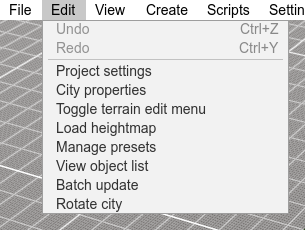
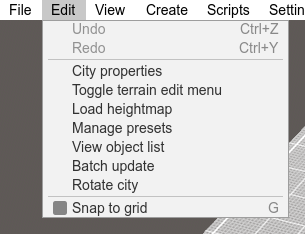
Merge project settings into preferences panel and make graphics settings global

diff --git a/Scripts/UI/EditorPanel/EditorPanels/SettingsEditorPanel.cs b/Scripts/UI/EditorPanel/EditorPanels/SettingsEditorPanel.cs
@@ -16,17 +16,27 @@ namespace EditorPanels {
         EditorPanelElements.Checkbox mcpEnabled;
         EditorPanelElements.InputField mcpPort, mcpToken, mcpCommand;
         EditorPanelElements.Label mcpStatus;
+        EditorPanelElements.ScrollList globalPaths, localPaths;
+        EditorPanelElements.Button deleteLocalPathBtn, addLocalPathBtn;
+        EditorPanelElements.TextureField overlayField;
+        EditorPanelElements.InputField propsCullingDistance;
+        EditorPanelElements.Dropdown renderingModeDropdown;
+        EditorPanelElements.Checkbox shadowsCheckbox;
         List<CM.CoreInfo> curList;
         int curCoreI = -1;
         int curScriptFolderI = -1;
+        int curGlobalPathI = -1;
+        int curLocalPathI = -1;
 
         public override void Initialize(GameObject canvas) {
-            pageButtonNames.AddRange(new string[] { SM.Get("PREF_TAB_CORES"), SM.Get("PREF_TAB_PYTHON"), SM.Get("PREF_TAB_CONTROLS"), SM.Get("PREF_TAB_MCP") });
-            Initialize(canvas, 4);
+            pageButtonNames.AddRange(new string[] { SM.Get("PREF_TAB_CORES"), SM.Get("PREF_TAB_PYTHON"), SM.Get("PREF_TAB_CONTROLS"), SM.Get("PREF_TAB_MCP"), SM.Get("PREF_TAB_PATHS"), SM.Get("PREF_TAB_GFX") });
+            Initialize(canvas, new List<int> { 3, 3 });
             var p0 = GetPage(0);
             var p1 = GetPage(1);
             var p2 = GetPage(2);
             var p3 = GetPage(3);
+            var p4 = GetPage(4);
+            var p5 = GetPage(5);
             var w = 1.5f;
 
             //Cores
@@ -110,7 +120,73 @@ namespace EditorPanels {
             p3.IncreaseRow();
             p3.AddButton(SM.Get("CLOSE"), delegate { SetActive(false); }, w);
 
+            //Paths (the global ones are program settings, the local ones and the overlay belong to the open city)
+            globalPaths = p4.AddScrollList(SM.Get("PREF_GLOBAL_PATHS"), new List<string>(), x => curGlobalPathI = x, w, SM.Get("PREF_GLOBAL_PATHS_TOOLTIP"));
+            p4.IncreaseRow(5.0f);
+            p4.AddButton(SM.Get("PREF_GLOBAL_PATHS_DELETE"), delegate {
+                DeletePath(ref curGlobalPathI, delegate { return SettingsManager.GetList<string>("extraFolders", null); }, x => SettingsManager.SetList("extraFolders", x), globalPaths);
+            }, w * 0.5f);
+            p4.AddButton(SM.Get("PREF_GLOBAL_PATHS_ADD"), delegate {
+                GetPath(x => { AddPath(x, ref curGlobalPathI, delegate { return SettingsManager.GetList<string>("extraFolders", null); }, x => SettingsManager.SetList("extraFolders", x), globalPaths); });
+            }, w * 0.5f);
+            p4.IncreaseRow();
+            localPaths = p4.AddScrollList(SM.Get("PREF_LOCAL_PATHS"), new List<string>(), x => curLocalPathI = x, w, SM.Get("PREF_LOCAL_PATHS_TOOLTIP"));
+            p4.IncreaseRow(5.0f);
+            deleteLocalPathBtn = p4.AddButton(SM.Get("PREF_LOCAL_PATHS_DELETE"), delegate {
+                DeletePath(ref curLocalPathI, delegate { return PreferencesManager.GetList<string>("extraFolders", null); }, x => PreferencesManager.SetList("extraFolders", x), localPaths);
+            }, w * 0.5f);
+            addLocalPathBtn = p4.AddButton(SM.Get("PREF_LOCAL_PATHS_ADD"), delegate {
+                GetPath(x => { AddPath(x, ref curLocalPathI, delegate { return PreferencesManager.GetList<string>("extraFolders", null); }, x => PreferencesManager.SetList("extraFolders", x), localPaths); });
+            }, w * 0.5f);
+            p4.IncreaseRow();
+            overlayField = p4.AddTextureField(builder, SM.Get("GROUND_OVERLAY"), SM.Get("TEXTURE_PH"), "", x => {
+                PreferencesManager.Set("overlayTex", x);
+                builder.helper.LoadOverlayTexture(x);
+            }, delegate {
+                return PreferencesManager.Get("overlayTex", "");
+            }, x => PreferencesManager.Set("overlayTex", x), w, SM.Get("OVERLAY_TOOLTIP"));
+            p4.IncreaseRow();
+            p4.AddButton(SM.Get("CLOSE"), delegate { SetActive(false); }, w);
+
+            //Graphics
+            renderingModeDropdown = p5.AddDropdown(SM.Get("PREF_GFX_RENDERING_MODE"), new List<string> { SM.Get("PREF_GFX_RENDERING_MODE_NORMAL"), SM.Get("PREF_GFX_RENDERING_MODE_VERTEX_LIT") }, builder.helper.menuBar.SetCameraRenderingMode, w);
+            p5.IncreaseRow();
+            shadowsCheckbox = p5.AddCheckbox(SM.Get("PREF_GFX_SHADOWS"), true, builder.helper.menuBar.SetShadows, w);
+            p5.IncreaseRow();
+            propsCullingDistance = p5.AddInputField(SM.Get("PREF_GFX_PROP_CULL_DIST"), SM.Get("NUMBER_PH"), "", GameEngine.InputContentType.Decimal, builder.helper.menuBar.SetPropsCullingDistance, w);
+            p5.IncreaseRow();
+            p5.AddButton(SM.Get("CLOSE"), delegate { SetActive(false); }, w);
+
             ReloadCoreList(cores, true);
+        }
+
+        void DeletePath(ref int curPathI, System.Func<List<string>> getter, System.Action<List<string>> setter, EditorPanelElements.ScrollList paths) {
+            if (curPathI == -1) return;
+            var lst = getter.Invoke();
+            if (lst != null) {
+                lst.RemoveAt(curPathI);
+                setter.Invoke(lst);
+            }
+            ReloadPathList(ref curPathI, getter, paths, true);
+        }
+
+        void AddPath(string value, ref int curPathI, System.Func<List<string>> getter, System.Action<List<string>> setter, EditorPanelElements.ScrollList paths) {
+            var lst = getter.Invoke();
+            if (lst == null) lst = new List<string>();
+            lst.Add(value);
+            setter.Invoke(lst);
+            ReloadPathList(ref curPathI, getter, paths, true);
+        }
+
+        void GetPath(System.Action<string> saveAction) {
+            builder.CreateInput(SM.Get("PREF_PATH_INPUT_TITLE"), SM.Get("PREF_PATH_INPUT_PH"), SM.Get("ADD"), SM.Get("CANCEL"), str => { saveAction.Invoke(str); });
+        }
+
+        void ReloadPathList(ref int curPathI, System.Func<List<string>> getter, EditorPanelElements.ScrollList paths, bool deselect) {
+            paths.Deselect();
+            var lst = getter.Invoke();
+            paths.SetItems(lst != null ? new List<string>(lst) : new List<string>());
+            if (deselect) curPathI = -1;
         }
 
         void ShowMcpStatus() {
@@ -343,6 +419,17 @@ namespace EditorPanels {
                 emulateMiddle.SetValue(SettingsManager.Get("emulateMiddleButton", false));
                 mcpEnabled.SetValue(SettingsManager.Get("mcpServerEnabled", false));
                 ShowMcpStatus();
+                ReloadPathList(ref curGlobalPathI, delegate { return SettingsManager.GetList<string>("extraFolders", null); }, globalPaths, true);
+                //the preferences of a city exist only while one is open
+                var cityOpen = PreferencesManager.workingDirectory != "";
+                ReloadPathList(ref curLocalPathI, delegate { return cityOpen ? PreferencesManager.GetList<string>("extraFolders", null) : null; }, localPaths, true);
+                deleteLocalPathBtn.SetInteractable(cityOpen);
+                addLocalPathBtn.SetInteractable(cityOpen);
+                overlayField.SetInteractable(cityOpen);
+                overlayField.SetValue(cityOpen ? PreferencesManager.Get("overlayTex", "") : "");
+                renderingModeDropdown.SetValue(SettingsManager.Get("renderingMode", 0));
+                shadowsCheckbox.SetValue(SettingsManager.Get("shadowsEnabled", true));
+                propsCullingDistance.SetValue("" + SettingsManager.Get("propsCullingDistance", 300.0f));
             }
             base.SetActive(active);
         }

diff --git a/Scripts/UI/MenuBar/CityBuilderMenuBar.cs b/Scripts/UI/MenuBar/CityBuilderMenuBar.cs
@@ -29,7 +29,6 @@ public partial class CityBuilderMenuBar : Control {
     MeshListEditorPanel meshListEditorPanel = new MeshListEditorPanel();
     TransformPropertiesEditorPanel transformPropertiesEditorPanel = new TransformPropertiesEditorPanel();
     SettingsEditorPanel settingsEditorPanel = new SettingsEditorPanel();
-    ProjectSettingsEditorPanel projectSettingsEditorPanel = new ProjectSettingsEditorPanel();
     CityPropertiesEditorPanel cityPropertiesEditorPanel = new CityPropertiesEditorPanel();
     public EditorPanels.Props.ContainerEditorPanel propContainerEditorPanel = new EditorPanels.Props.ContainerEditorPanel();
     public TerrainPatchBorderMeshEditorPanel tpBorderMeshEditorPanel = new TerrainPatchBorderMeshEditorPanel();
@@ -148,7 +147,6 @@ public partial class CityBuilderMenuBar : Control {
 
         //Edit
         entries = new List<string> {
-            SM.Get("PROJECT_SETTINGS"),
             SM.Get("CITY_PROPERTIES"),
             SM.Get("TOGGLE_TERRAIN_EDIT_MENU"),
             SM.Get("LOAD_HEIGHTMAP"),
@@ -158,7 +156,6 @@ public partial class CityBuilderMenuBar : Control {
             SM.Get("ROTATE_CITY")
         };
         actions = new List<System.Action> {
-            ToggleProjectSettings,
             ToggleCityProperties,
             ToggleTerrainEdit,
             LoadHeightmap,
@@ -243,7 +240,6 @@ public partial class CityBuilderMenuBar : Control {
             transformPropertiesEditorPanel,
             buildingLineEditorPanel,
             settingsEditorPanel,
-            projectSettingsEditorPanel,
             propContainerEditorPanel,
             tpBorderMeshEditorPanel,
             batchUpdateEditorPanel,
@@ -494,7 +490,7 @@ public partial class CityBuilderMenuBar : Control {
         }
         var standalonePanels = new List<EditorPanel> {
             cityPropertiesEditorPanel, newCityEditorPanel, heightmapEditorPanel, presetEditorPanel, cityTerrainEditorPanel,
-            cityBuildingsEditorPanel, objectListEditorPanel, meshListEditorPanel, settingsEditorPanel, projectSettingsEditorPanel,
+            cityBuildingsEditorPanel, objectListEditorPanel, meshListEditorPanel, settingsEditorPanel,
             batchUpdateEditorPanel, rotateCityPanel, customExporterPanel, scriptInputEditorPanel
         };
         if (standalonePanels.Contains(root)) {
@@ -845,8 +841,8 @@ public partial class CityBuilderMenuBar : Control {
         meshPlacer.placeEnabled = false;
         arrayPointPlacer.Stop();
         meshListEditorPanel.ResetEntries(); //otherwise when opened for the first time it would have broken paths due to prefs not being loaded at first load
-        SetCameraRenderingMode(PreferencesManager.Get("renderingMode", 0), false);
-        SetShadows(PreferencesManager.Get("shadowsEnabled", true), false);
+        SetCameraRenderingMode(SettingsManager.Get("renderingMode", 0), false);
+        SetShadows(SettingsManager.Get("shadowsEnabled", true), false);
     }
 
     public void SetCameraRenderingMode(int mode) {
@@ -869,7 +865,7 @@ public partial class CityBuilderMenuBar : Control {
                     break;
             }
         }
-        if (save) PreferencesManager.Set("renderingMode", mode);
+        if (save) SettingsManager.Set("renderingMode", mode);
     }
 
     public void SetShadows(bool enabled) {
@@ -882,12 +878,12 @@ public partial class CityBuilderMenuBar : Control {
 
     void SetShadows(bool enabled, bool save) {
         GameEngine.Lighting.SetSunShadows(this, enabled);
-        if (save) PreferencesManager.Set("shadowsEnabled", enabled);
+        if (save) SettingsManager.Set("shadowsEnabled", enabled);
     }
 
     public void SetPropsCullingDistance(string distance) {
         if (!float.TryParse(distance, out var v)) return;
-        PreferencesManager.Set("propsCullingDistance", v);
+        SettingsManager.Set("propsCullingDistance", v);
         var cam = GetCameraController();
         if (cam != null) cam.SetPropsCullingDistance(v);
     }
@@ -1019,10 +1015,6 @@ public partial class CityBuilderMenuBar : Control {
 
     void ToggleSettings() {
         ShowPanel(settingsEditorPanel);
-    }
-
-    void ToggleProjectSettings() {
-        ShowPanel(projectSettingsEditorPanel);
     }
 
     void ToggleCityProperties() {

diff --git a/Scripts/UI/GuideScreenshots.cs b/Scripts/UI/GuideScreenshots.cs
@@ -221,14 +221,12 @@ public partial class GuideScreenshots : Node {
             await Shot("terrain-edit-panel", PanelRect(Panel<EditorPanel>("terrainEditorPanel")));
             Call("ToggleTerrainEdit");
 
-            //project settings
-            Call("ToggleProjectSettings");
-            await Shot("project-settings-panel", PanelRect(Panel<EditorPanel>("projectSettingsEditorPanel")));
-            Close();
-
             //preferences
             Call("ToggleSettings");
             await Shot("preferences-cores-panel", PanelRect(Panel<EditorPanel>("settingsEditorPanel")));
+            Panel<EditorPanel>("settingsEditorPanel").ShowPage(4);
+            await Frames(2);
+            await Shot("preferences-paths-panel", PanelRect(Panel<EditorPanel>("settingsEditorPanel")));
             Close();
 
             //no city loaded: the new city panel is shown

diff --git a/Scripts/Api/ApiSelfTest.Loading.cs b/Scripts/Api/ApiSelfTest.Loading.cs
@@ -14,7 +14,7 @@ namespace Api {
                 System.Reflection.BindingFlags.NonPublic | System.Reflection.BindingFlags.Instance).GetValue(builder);
             var roadPanel = Panel("roadEditorPanel");
             var heightPanel = Panel("heightmapEditorPanel");
-            var projectPanel = Panel("projectSettingsEditorPanel");
+            var projectPanel = Panel("settingsEditorPanel");
             var types = CT.Parsers.TypeParser.GetCustomElementTypes();
             var scripts = LuaScriptHost.Get();
             var parametric = CT.Parsers.TypeParser.GetParametricMeshInstanceSettings();

diff --git a/Scripts/Api/ApiSelfTest.cs b/Scripts/Api/ApiSelfTest.cs
@@ -3924,7 +3924,7 @@ road(-750)
                 var before = await Call("view.screenshot");
                 var on = editorCam.ToggleWireframe();
                 var during = await Call("view.screenshot");
-                var renderingMode = PreferencesManager.Get("renderingMode", 0);
+                var renderingMode = SettingsManager.Get("renderingMode", 0);
                 builder.SetCameraRenderingMode(1);
                 var ambientSynced = editorCam.Environment?.AmbientLightColor.IsEqualApprox(Colors.White) == true;
                 builder.SetCameraRenderingMode(renderingMode);

diff --git a/Scripts/UI/World/CameraController.cs b/Scripts/UI/World/CameraController.cs
@@ -41,7 +41,7 @@ public partial class CameraController : Camera3D {
         GameEngine.Input.ReloadKeys(); //TODO: remove after done
         cam = this;
         curRotation = RotationDegrees;
-        SetPropsCullingDistance(PreferencesManager.Get("propsCullingDistance", 300.0f));
+        SetPropsCullingDistance(SettingsManager.Get("propsCullingDistance", 300.0f));
         cam.CullMask &= ~GameEngine.Camera.RenderOnlyLayer;
         defaultCullingMask = cam.CullMask;
         LoadControls();

diff --git a/wiki/Quickstart-Guide.md b/wiki/Quickstart-Guide.md
@@ -37,14 +37,14 @@ Cores can only be managed while no city is loaded (to close the current city sel
 
 ### Stock assets and search paths
 
-The editor looks for textures and meshes in the city folder, and in any additional path you add in *Edit→Project settings→Paths*:
+The editor looks for textures and meshes in the city folder, and in any additional path you add in *Settings→Preferences→Paths*:
 
 - *Global paths* are used for all cities
-- *Local paths* are used for the current city only
+- *Local paths (this project)* are used for the current city only (they can be edited only while a city is open)
 
 Paths starting with a dot are relative to the *Files/common* folder in the city builder folder. If you want to use the stock meshes and textures of the game you are creating the city for, the usual place for them is *Files/common/\<core name\>*, as the city templates of a core may already include a local path pointing there.
 
-![The Paths tab of the project settings](images/project-settings-panel.png)
+![The Paths tab of the preferences](images/preferences-paths-panel.png)
 
 The supported texture formats are .bmp, .jpg, .png, .tga and .dds, the supported mesh format is .obj. Cores can add support for more mesh and texture formats (e.g. the native formats of the game) via Python scripting.
 
@@ -70,7 +70,7 @@ The (empty) city is then loaded.
 - To discard all the changes made since the last save, select *File→Reload city*.
 - To close the current city, select *File→Close city*.
 
-Everything about a city is stored in its folder: the city itself (*city.json.gz*), its presets (*presets.json*) and its project settings (*preferences.json*), along with the textures and meshes you placed there. Copying the folder is enough to back up a city (the textures and meshes found through the other search paths are not included).
+Everything about a city is stored in its folder: the city itself (*city.json.gz*), its presets (*presets.json*) and its own preferences (*preferences.json*), along with the textures and meshes you placed there. Copying the folder is enough to back up a city (the textures and meshes found through the other search paths are not included).
 
 Exporting the city for the game is described in [Exporting](#exporting).
 
@@ -185,7 +185,7 @@ Select *Edit→Toggle terrain edit menu*, choose a *Terrain modifier* (*Raise te
 
 ### Ground overlay
 
-You can display an image on the ground as a guide for placing roads (e.g. a map of the real city): copy it in the city folder, select it in the *Ground overlay* field of *Edit→Project settings*, then enable it with *View→Ground overlay*. Its opacity can be changed with *View→Change overlay transparency*.
+You can display an image on the ground as a guide for placing roads (e.g. a map of the real city): copy it in the city folder, select it in the *Ground overlay (this project)* field of *Settings→Preferences→Paths*, then enable it with *View→Ground overlay*. Its opacity can be changed with *View→Change overlay transparency*.
 
 ### View options
 
@@ -194,7 +194,7 @@ You can display an image on the ground as a guide for placing roads (e.g. a map 
 - *View→Hide terrain grid* hides the terrain, which can't be clicked while hidden: use it to place points or objects on a surface the terrain covers (e.g. a road under it). Elements projected on the city surfaces, such as the MM2 decals, already go under the terrain. Roads and other elements projected on the terrain still follow it, so a road, building line or terrain patch started while the terrain is hidden has its *Project to ground* turned off (it can be turned on again). The *Project to ground* button of a mesh instance skips the hidden terrain as well: it puts the instance on the surface it can be placed on under it, or at the zero height if there is none.
 - *View→Wireframe* shows the meshes as wireframe, on a plain background.
 - *View→Reset window* restores the default window size.
-- The rendering mode, the shadows and the props culling distance are in *Edit→Project settings→Graphics*.
+- The rendering mode, the shadows and the props culling distance are in *Settings→Preferences→Graphics*. They apply to all cities.
 
 ## Presets
 

diff --git a/wiki/User-Interface.md b/wiki/User-Interface.md
@@ -7,7 +7,7 @@ The user interface (`Scripts/UI`) is built entirely in code; the main scene only
 The script of the `Editor` control and the central coordinator of the editor.
 
 * **Owns** every editor panel, the placers (`RoadPlacer`, `TerrainPlacer`, `BuildingPlacer`, `MeshPlacer`), the `TerrainClick` tool host, the file browser, the transform gizmo, the alert and text input popups.
-* **Menus** (built in `ManualStart`): File (new, load, reload, save, export, close city, exit), Edit (project settings, city properties, terrain editing, heightmap, presets, object list, batch update, rotate city), View (ground overlay, overlay transparency, all traffic lanes, ground only, hide terrain grid, wireframe, reset window, zoom to selection), Create (road, terrain patch, building line, one entry for each mesh instance type or group of types, the custom elements, whole-city terrain, whole-city buildings), Settings and Help. An extra blue menu shows the array elements currently selected.
+* **Menus** (built in `ManualStart`): File (new, load, reload, save, export, close city, exit), Edit (city properties, terrain editing, heightmap, presets, object list, batch update, rotate city), View (ground overlay, overlay transparency, all traffic lanes, ground only, hide terrain grid, wireframe, reset window, zoom to selection), Create (road, terrain patch, building line, one entry for each mesh instance type or group of types, the custom elements, whole-city terrain, whole-city buildings), Settings and Help. An extra blue menu shows the array elements currently selected.
 * **Selection**: `SelectObject(node, withEditor, collider, stack)` finds what was clicked (road, intersection, terrain patch, mesh instance, building line, building side, array object, city properties) and opens the matching panel with the matching placer. A click on something that isn't an element itself walks up through its parents and keeps them in the `stack`, so that the panel of the element opens the panels of the array elements in between (e.g. a decal from the click on its line). A click on a parametric object of the city properties goes through `SelectCityPropertiesObject` first, which opens the panels of the elements that contain it and then the transform panel as their child; `DeselectObject`, `DeleteCurObj`, `EditCurSelectedObjectTransform`.
 * **Change notifications**: `NotifyChange` (flags the world as changed, see [Architecture Overview](Architecture-Overview#the-update-loop)), `NotifyVisibilityChange`, `NotifyUpdateCompleted`.
 * **Popups**: `CreateAlert` (message with one or two buttons), `CreateInput` (text input), `DoDelayed` (run an action on the next frame).
@@ -60,8 +60,7 @@ What the panels and the mouse tools do to the city is implemented in the operati
 | `ArrayElemEditorPanel` | One element of an `array` or `customCityProperties` parameter. |
 | `CityPropertiesEditorPanel` | The core's city properties. |
 | `NewCityEditorPanel` | New city: terrain size, heightmap resolution, maximum height, core and template. Copies the template into the chosen folder and creates an empty `city.json.gz`. |
-| `SettingsEditorPanel` | Global settings: core management (install, update, uninstall, open folder, add repository), Python settings, camera controls and the [MCP server](MCP-Server) (enabled, port, token, status, the command adding it to Claude Code). |
-| `ProjectSettingsEditorPanel` | City settings: graphics options, global and local extra asset folders, ground overlay. |
+| `SettingsEditorPanel` | Global settings: core management (install, update, uninstall, open folder, add repository), Python settings, camera controls, the [MCP server](MCP-Server) (enabled, port, token, status, the command adding it to Claude Code), the global and local (this project) extra asset folders and the ground overlay (this project), and the graphics options (rendering mode, shadows, props culling distance). |
 | `PresetEditorPanel` | Entry point for editing road, intersection and building presets. |
 | `TerrainEditorPanel` | Heightmap tools (raise, lower, level) with range, intensity and continuous mode. |
 | `HeightmapEditorPanel` | Loads a grayscale image as heightmap. |

diff --git a/Readme.md b/Readme.md
@@ -23,7 +23,7 @@ The full documentation is in the [wiki](https://github.com/wilkovatch/km2-city-b
 
 - **Python 3** is required. The city builder can manage its own Python installation, in which case the packages required by the cores are installed automatically. To use your own installation instead, set its path in *Settings→Preferences→Python* and install the packages required by the cores yourself.
 - **Cores**: on first launch, go to *Settings→Preferences→Cores*, select one of the listed cores and click *Install*. Other cores can be added with *Add from repository* and their Git URL. Cores can only be managed while no city is loaded.
-- **Assets**: textures and meshes are looked up in the city folder and in the paths added in *Edit→Project settings→Paths* (global paths for all cities, local paths for the current one). The stock assets of a game usually go in `Files/common/<core name>`. Supported formats are .bmp, .jpg, .png, .tga and .dds for textures and .obj for meshes; cores can add more (e.g. the native formats of the game) via Python.
+- **Assets**: textures and meshes are looked up in the city folder and in the paths added in *Settings→Preferences→Paths* (global paths for all cities, local paths for the current one). The stock assets of a game usually go in `Files/common/<core name>`. Supported formats are .bmp, .jpg, .png, .tga and .dds for textures and .obj for meshes; cores can add more (e.g. the native formats of the game) via Python.
 
 ### Typical workflow
 

diff --git a/wiki/Settings-Paths-and-Python.md b/wiki/Settings-Paths-and-Python.md
@@ -23,6 +23,7 @@ This page covers the classes that manage configuration files, file lookup, trans
 | `extraFolders` | string[] | Asset folders searched by every city (see [`PathHelper`](#pathhelper)). |
 | `scriptFolders` | string[] | Folders of the user's Python scripts, listed in the Scripts menu (see [Python Scripts](Python-Scripts)). |
 | `LastCity` | string | Path of the last opened `city.json.gz`, reopened at startup. |
+| `renderingMode`, `shadowsEnabled`, `propsCullingDistance` | | Graphics options of the Graphics tab of the preferences (apply to all cities). |
 | `Language` | string | String table language (default `en-US`, no UI to change it yet). |
 
 **`preferences.json`** (one per city)
@@ -34,7 +35,6 @@ This page covers the classes that manage configuration files, file lookup, trans
 | `extraFolders` | string[] | Asset folders searched by this city only. |
 | `overlayTex`, `OverlayActive`, `TransparentOverlay` | | Ground overlay image and its display state. |
 | `curTerrainTexture` | string | Last texture used for terrain patches. |
-| `renderingMode`, `shadowsEnabled`, `propsCullingDistance` | | Graphics options from the project settings panel. |
 | `scriptInputs:<source>:<name>` | string | The values last entered in the input panel of a Python script (a JSON object). |
 
 ## `GenericSettingsManager`

diff --git a/AGENTS.md b/AGENTS.md
@@ -142,7 +142,7 @@ Simulating input in self-tests:
 - **Terrain3D** snaps heightmap imports to its region grid; the region size is `min(256, resolution/2)`.
 - An exactly vertical physics ray on an edge of the Terrain3D heightmap cells can miss the terrain (Godot physics: whole coordinates at negative X near the origin, where the snapped clicks are). `DoRaycast` and `TryProjectPoint` retry vertical rays a little off the edges (`IntersectVerticalRay`); raw vertical `IntersectRay` calls need the same.
 - Forward+ wireframe works without `RenderingServer.SetDebugGenerateWireframes` (needed only on the Compatibility renderer).
-- Graphics settings (`renderingMode`, `shadowsEnabled`) are per city in `preferences.json`.
+- Graphics settings (`renderingMode`, `shadowsEnabled`, `propsCullingDistance`) are global, in `settings.json` (Settings→Preferences→Graphics). Local paths and the ground overlay stay per city in `preferences.json`.
 
 ## Game-specific reference
 

diff --git a/wiki/Core-Templates-and-Presets.md b/wiki/Core-Templates-and-Presets.md
@@ -35,7 +35,7 @@ The template must provide the city's preferences, at least:
 | `coreVersion`, `coreFeatureVersion` | The core's current versions (from its `settings.json`). Update them in the template whenever they change, otherwise new cities will require a migration. |
 | `extraFolders` | Asset folders searched by this city. A path starting with `.` is relative to `Files/common`, so `.\<CoreName>\` points to the core's common folder (see [Core Structure](Core-Structure#basecommon)). |
 
-Other preferences (overlay texture, graphics options...) are set by the user later and do not need to be in the template.
+Other preferences (overlay texture...) are set by the user later and do not need to be in the template.
 
 ## `presets.json`
 
